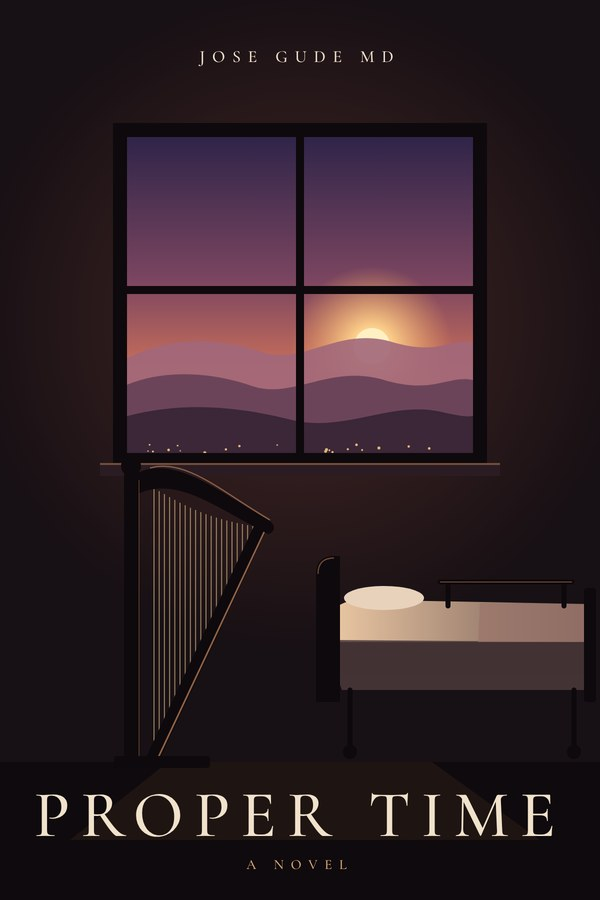
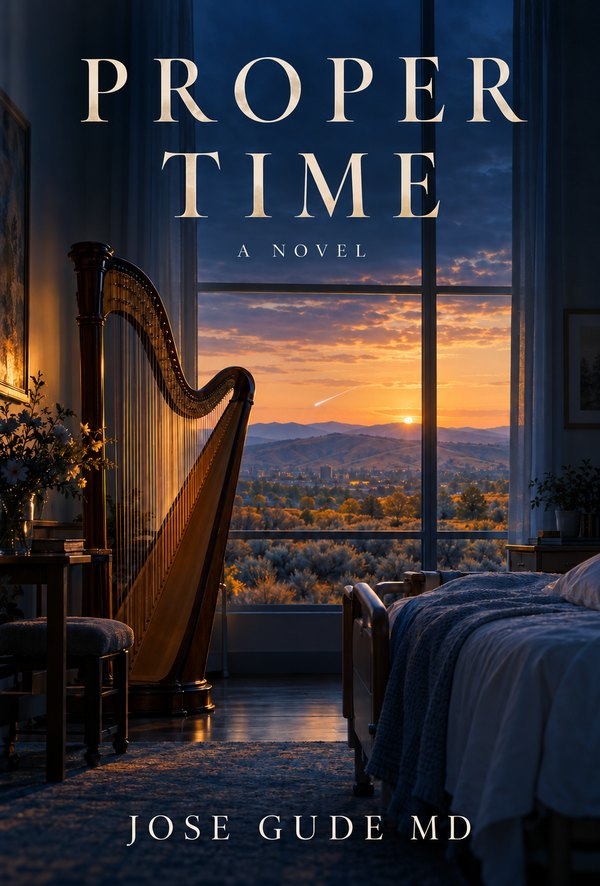
Works in Progress: covers for all five books (EN + ES)
SHN, Worldlines and Someone Here for a While from page 1 of their
manuscripts; Proper Time from the author's cover art, replacing the draft.

Claude-Session: https://claude.ai/code/session_01FQfJPEHCVFgFPB9ZRz9oqS

diff --git a/es/works-in-progress.html b/es/works-in-progress.html
@@ -82,6 +82,7 @@
   </article>
 
   <article class="wip-card" id="shn">
+    <img class="wip-cover" src="../assets/img/shn-cover.jpg" width="600" height="900" alt="Cubierta de Someone Here, Now — Measured: un reloj de arena de puntos de luz dentro de un marco graduado" loading="lazy">
     <h2><em>Someone Here, Now &mdash; Measured</em></h2>
     <p class="wip-meta">(«Alguien aquí, ahora &mdash; medido») &middot; El programa de investigación de la teoría de la individuación biológica &middot; borrador completo, sometido a revisión</p>
     <p><strong>¿Cómo podría perder una teoría de la conciencia?</strong> <em>Biological Individuation Theory</em> se preguntaba por qué la experiencia es de alguien y proponía que el organismo vivo es parte de la respuesta. Este volumen complementario se pregunta cómo podría demostrarse que esa propuesta es errónea.</p>
@@ -101,6 +102,7 @@
   </article>
 
   <article class="wip-card" id="shfw">
+    <img class="wip-cover" src="../assets/img/shfw-cover.jpg" width="600" height="857" alt="Cubierta de Someone Here for a While: un libro abierto sobre una mesa de madera a la luz de la tarde" loading="lazy">
     <h2><em>Someone Here for a While</em></h2>
     <p class="wip-meta">(«Alguien aquí por un tiempo») &middot; Sentido, mortalidad y los extremos abiertos &middot; manuscrito v2.0, en revisión</p>
     <p>El más personal de los tres. Donde el libro de teoría argumenta, este reflexiona: un libro en primera persona, escrito desde la vida de un médico, sobre lo que significa ser alguien durante un tiempo. No es una guía clínica ni una revisión de la literatura, y se apoya en los argumentos de <em>Biological Individuation Theory</em> con ligereza en lugar de repetirlos.</p>
@@ -125,6 +127,7 @@
   <p class="eyebrow">Ficción</p>
 
   <article class="wip-card" id="worldlines">
+    <img class="wip-cover" src="../assets/img/worldlines-cover.jpg" width="600" height="900" alt="Cubierta de Worldlines: finas líneas de luz sobre azul profundo que se cruzan en un punto luminoso" loading="lazy">
     <h2><em>Worldlines</em></h2>
     <p class="wip-meta">(«Líneas de universo») &middot; Una novela &middot; borrador completo, en revisión</p>
     <p>A las 3:04 de la madrugada, en un hospital del VA en Boise en 2035, un veterano de noventa y un años que lleva dos sin hablar empieza a describir un parto &mdash; con la voz de su difunta esposa, desde una sala de partos en la que nunca le dejaron entrar. Por la mañana ha muerto, y su hijo confirma detalles que solo su madre podía haber conocido.</p>
@@ -143,7 +146,7 @@
   </article>
 
   <article class="wip-card" id="proper-time">
-    <img class="wip-cover" src="../assets/img/proper-time-cover.jpg" width="600" height="900" alt="Cubierta de Proper Time: un arpa junto a una cama en una habitación en penumbra; por la ventana, las colinas de Boise al atardecer" loading="lazy">
+    <img class="wip-cover" src="../assets/img/proper-time-cover.jpg" width="600" height="886" alt="Cubierta de Proper Time: un arpa junto a una cama, con una ventana que da a las colinas de Boise al atardecer" loading="lazy">
     <h2><em>Proper Time</em></h2>
     <p class="wip-meta">(«Tiempo propio») &middot; Una novela &middot; secuela de <em>Worldlines</em> &middot; en preparación: mundo y esquema definidos, redacción aún no iniciada</p>
     <p>Boise, 2046. Naomi Murphy, tanatóloga musical que toca el arpa junto a la cabecera de los moribundos, está tocando para su propia madre cuando la anciana, sumida desde hace años en la demencia, despierta plenamente lúcida durante una hora, la llama por un nombre de infancia que nadie ha usado en décadas y tararea una melodía que Naomi no ha oído nunca. Dos días después su madre ha muerto.</p>

diff --git a/works-in-progress.html b/works-in-progress.html
@@ -82,6 +82,7 @@
   </article>
 
   <article class="wip-card" id="shn">
+    <img class="wip-cover" src="assets/img/shn-cover.jpg" width="600" height="900" alt="Cover of Someone Here, Now — Measured: an hourglass of scattered points of light within a measured frame" loading="lazy">
     <h2><em>Someone Here, Now &mdash; Measured</em></h2>
     <p class="wip-meta">The Research Program of Biological Individuation Theory &middot; full draft, in review</p>
     <p><strong>How could a theory of consciousness lose?</strong> <em>Biological Individuation Theory</em> asked why experience is someone's and proposed that the living organism is part of the answer. This companion volume asks how that proposal could be shown wrong.</p>
@@ -101,6 +102,7 @@
   </article>
 
   <article class="wip-card" id="shfw">
+    <img class="wip-cover" src="assets/img/shfw-cover.jpg" width="600" height="857" alt="Cover of Someone Here for a While: an open book on a wooden table in late sunlight" loading="lazy">
     <h2><em>Someone Here for a While</em></h2>
     <p class="wip-meta">Meaning, Mortality, and the Open Bookends &middot; manuscript v2.0, in revision</p>
     <p>The most personal of the three. Where the theory book argues, this one reflects: a first-person book, written from a physician's life, about what it means to be someone for a while. It is not a clinical guide or a review of the literature, and it leans on the arguments of <em>Biological Individuation Theory</em> lightly rather than repeating them.</p>
@@ -125,6 +127,7 @@
   <p class="eyebrow">Fiction</p>
 
   <article class="wip-card" id="worldlines">
+    <img class="wip-cover" src="assets/img/worldlines-cover.jpg" width="600" height="900" alt="Cover of Worldlines: fine lines of light on deep blue, crossing at a glowing point" loading="lazy">
     <h2><em>Worldlines</em></h2>
     <p class="wip-meta">A novel &middot; complete draft, in revision</p>
     <p>At 3:04 in the morning, in a VA hospital in Boise in 2035, a ninety-one-year-old veteran who has not spoken in two years begins to describe giving birth &mdash; in his dead wife's voice, from a delivery room he was never allowed to enter. By morning he is dead, and his son confirms details only his mother could have known.</p>
@@ -143,7 +146,7 @@
   </article>
 
   <article class="wip-card" id="proper-time">
-    <img class="wip-cover" src="assets/img/proper-time-cover.jpg" width="600" height="900" alt="Cover of Proper Time: a harp beside a bed in a dim room, the Boise foothills at sunset through the window" loading="lazy">
+    <img class="wip-cover" src="assets/img/proper-time-cover.jpg" width="600" height="886" alt="Cover of Proper Time: a harp beside a bed in a room whose window looks out on the Boise foothills at sunset" loading="lazy">
     <h2><em>Proper Time</em></h2>
     <p class="wip-meta">A novel &middot; sequel to <em>Worldlines</em> &middot; in planning: world and outline settled, drafting not yet begun</p>
     <p>Boise, 2046. Naomi Murphy, a music thanatologist who plays harp at the bedsides of the dying, is playing for her own mother when the old woman, years deep in dementia, wakes fully lucid for an hour, calls her by a childhood name no one has used in decades, and hums a melody Naomi has never heard. Two days later her mother is dead.</p>
